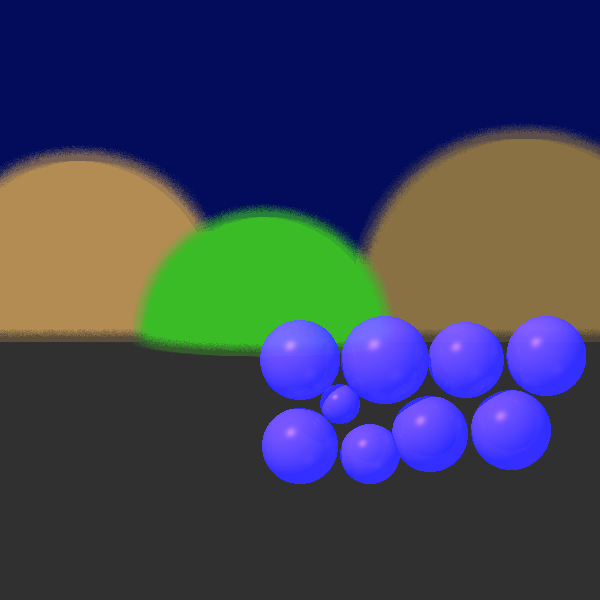
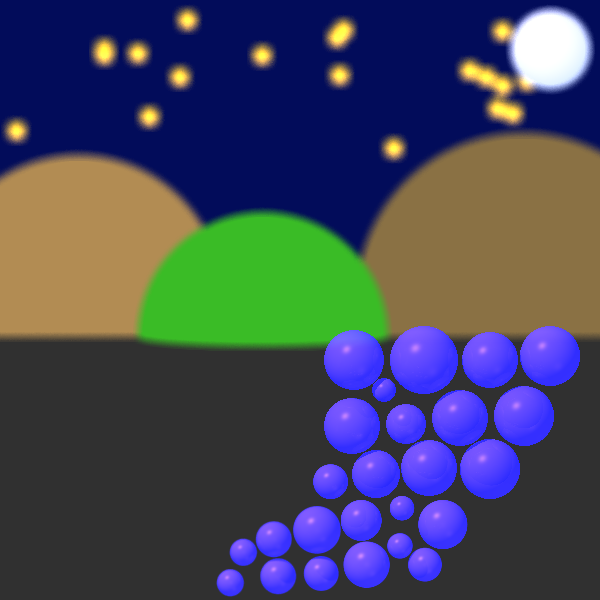
mp2 finish grapes

diff --git a/tests/renderer/Final.java b/tests/renderer/Final.java
@@ -14,6 +14,8 @@ import primitives.Point3D;
 import primitives.Vector;
 import scene.Scene;
 
+import java.util.Random;
+
 public class Final {
     private Scene scene = new Scene("Test scene");
 
@@ -24,7 +26,7 @@ public class Final {
 
         scene.setAmbientLight(new AmbientLight(new Color(java.awt.Color.WHITE), 0.15));
         scene.background = new Color(2, 12, 90);
-Material mat=new Material().setKd(0.2).setKs(0.2).setShininess(30).setKt(0.4).setKr(0.1);
+        Material mat = new Material().setKd(0.2).setKs(0.2).setShininess(30).setKt(0.4).setKr(0.1);
 
         scene.geometries.add(
                 new Sphere(10, new Point3D(-3, -3, -250))//center mount
@@ -33,42 +35,108 @@ Material mat=new Material().setKd(0.2).setKs(0.2).setShininess(30).setKt(0.4).se
                         .setEmission(new Color(140, 102, 45)),
                 new Sphere(15, new Point3D(20, 0, -300))//right mount
                         .setEmission(new Color(100, 75, 30)),
+                new Sphere(3.2, new Point3D(20, 20, -250))//moon
+                        .setEmission(new Color(180, 200, 250))
+                        .setMaterial(new Material().setKd(0.4).setKs(0.4).setShininess(50)),
                 new Polygon(new Point3D(-30, -3, -250), new Point3D(30, -3, -250),//floor
-                        new Point3D(30, -30, 0), new Point3D(-30, -30, 0))
+                        new Point3D(30, -20, 0), new Point3D(-30, -20, 0))
                         .setEmission(new Color(10, 10, 10)),
-                //grapes
-                new Sphere(2, new Point3D(0, -3, -100))
+                //grapes:
+                new Sphere(1.5, new Point3D(2.7, -3, -100))
                         .setEmission(new Color(java.awt.Color.blue))
                         .setMaterial(mat),
-             new Sphere(2.2, new Point3D(4.25, -3, -100))
+                new Sphere(1.7, new Point3D(6.2, -3, -100))
                         .setEmission(new Color(java.awt.Color.blue))
                         .setMaterial(mat),
-             new Sphere(1.9, new Point3D(8.3, -3, -100))
+                new Sphere(1.4, new Point3D(9.5, -3, -100))
                         .setEmission(new Color(java.awt.Color.blue))
                         .setMaterial(mat),
-             new Sphere(2, new Point3D(12.32, -2.8, -100))
+                new Sphere(1.5, new Point3D(12.5, -2.8, -100))
                         .setEmission(new Color(java.awt.Color.blue))
                         .setMaterial(mat),
 
-                new Sphere(1.9, new Point3D(0, -7.3, -100))
+                new Sphere(1.4, new Point3D(2.6, -6.3, -100))
                         .setEmission(new Color(java.awt.Color.blue))
                         .setMaterial(mat),
-                new Sphere(1, new Point3D(2, -5.2, -100))//little
+                new Sphere(0.6, new Point3D(4.2, -4.5, -100))//little
                         .setEmission(new Color(java.awt.Color.blue))
                         .setMaterial(mat),
-                new Sphere(1.5, new Point3D(3.5, -7.7, -100))
+                new Sphere(1, new Point3D(5.3, -6.2, -100))
                         .setEmission(new Color(java.awt.Color.blue))
                         .setMaterial(mat),
-                new Sphere(1.9, new Point3D(6.5, -6.7, -100))
+                new Sphere(1.4, new Point3D(8, -5.9, -100))
                         .setEmission(new Color(java.awt.Color.blue))
                         .setMaterial(mat),
-                new Sphere(2, new Point3D(10.55, -6.5, -100))
+                new Sphere(1.5, new Point3D(11.2, -5.8, -100))
+                        .setEmission(new Color(java.awt.Color.blue))
+                        .setMaterial(mat),
+
+                new Sphere(0.85, new Point3D(1.5, -8.9, -95))
+                        .setEmission(new Color(java.awt.Color.blue))
+                        .setMaterial(mat),
+                new Sphere(1.2, new Point3D(3.8, -8.7, -100))
+                        .setEmission(new Color(java.awt.Color.blue))
+                        .setMaterial(mat),
+                new Sphere(1.4, new Point3D(6.45, -8.4, -100))
+                        .setEmission(new Color(java.awt.Color.blue))
+                        .setMaterial(mat),
+                new Sphere(1.5, new Point3D(9.5, -8.45, -100))
+                        .setEmission(new Color(java.awt.Color.blue))
+                        .setMaterial(mat),
+
+                new Sphere(0.6, new Point3D(-2.6, -11.6, -80))
+                        .setEmission(new Color(java.awt.Color.blue))
+                        .setMaterial(mat),
+                new Sphere(0.8, new Point3D(-1.2, -11, -80))
+                        .setEmission(new Color(java.awt.Color.blue))
+                        .setMaterial(mat),
+                new Sphere(1.1, new Point3D(0.8, -10.8, -85))
+                        .setEmission(new Color(java.awt.Color.blue))
+                        .setMaterial(mat),
+                new Sphere(1, new Point3D(3, -10.8, -95))
+                        .setEmission(new Color(java.awt.Color.blue))
+                        .setMaterial(mat),
+                new Sphere(0.6, new Point3D(5, -10.2, -95)) //little
+                        .setEmission(new Color(java.awt.Color.blue))
+                        .setMaterial(mat),
+                new Sphere(1.2, new Point3D(7, -11, -95))
+                        .setEmission(new Color(java.awt.Color.blue))
+                        .setMaterial(mat),
+//                new Sphere(0.6, new Point3D(7.7, -9.8, -95)) //little
+//                        .setEmission(new Color(java.awt.Color.blue))
+//                        .setMaterial(mat),
+//                new Sphere(1.1, new Point3D(8.7, -11.3, -95))
+//                        .setEmission(new Color(java.awt.Color.blue))
+//                        .setMaterial(mat),
+
+                new Sphere(0.6, new Point3D(4.8, -11.8, -90)) //little
+                        .setEmission(new Color(java.awt.Color.blue))
+                        .setMaterial(mat),
+                new Sphere(1.1, new Point3D(3.2, -12.7, -90))
+                        .setEmission(new Color(java.awt.Color.blue))
+                        .setMaterial(mat),
+                new Sphere(0.8, new Point3D(6, -12.7, -90))
+                        .setEmission(new Color(java.awt.Color.blue))
+                        .setMaterial(mat),
+                new Sphere(0.8, new Point3D(1, -12.85, -85))
+                        .setEmission(new Color(java.awt.Color.blue))
+                        .setMaterial(mat),
+                new Sphere(0.8, new Point3D(-1, -12.7, -80))
+                        .setEmission(new Color(java.awt.Color.blue))
+                        .setMaterial(mat),
+                new Sphere(0.6, new Point3D(-3.2, -13, -80))
                         .setEmission(new Color(java.awt.Color.blue))
                         .setMaterial(mat)
 
-
         );
-
+        //stars:
+        Material starMat = new Material().setKd(0.2).setKs(0.2).setShininess(50);
+        //x between -30,30. y between 15,25.
+        for (int i = 0; i < 20; i++) {
+            scene.geometries.add(new Sphere(0.9, new Point3D(Math.random()*60-30, Math.random()*13+15, -350))
+                    .setEmission(new Color(java.awt.Color.orange))
+                    .setMaterial(starMat));
+        }
 
         scene.lights.add(new SpotLight(new Color(700, 400, 400), new Point3D(-70, 100, 0), new Vector(12, -70, 0.5))
                 .setKl(0.0001).setKq(0.00001));
@@ -82,8 +150,8 @@ Material mat=new Material().setKd(0.2).setKs(0.2).setShininess(30).setKt(0.4).se
                 .setCamera(camera)
                 .setMultithreading(3) //fot threading improvement
                 .setDebugPrint()
-                .setRayTracer(new BasicRayTracer(scene));
-        render.renderImage(9);
+                .setRayTracer(new BasicRayTracer(scene.turnOnUsingBVH())); //BVH
+        render.renderImage(81);
         render.writeToImage();
     }
 }
